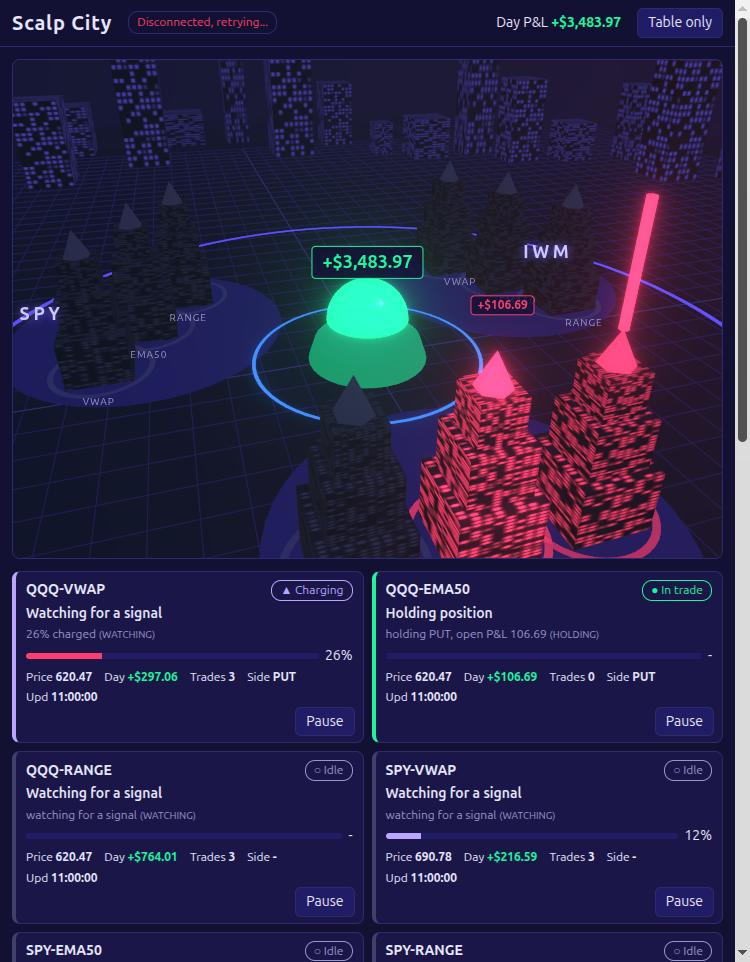
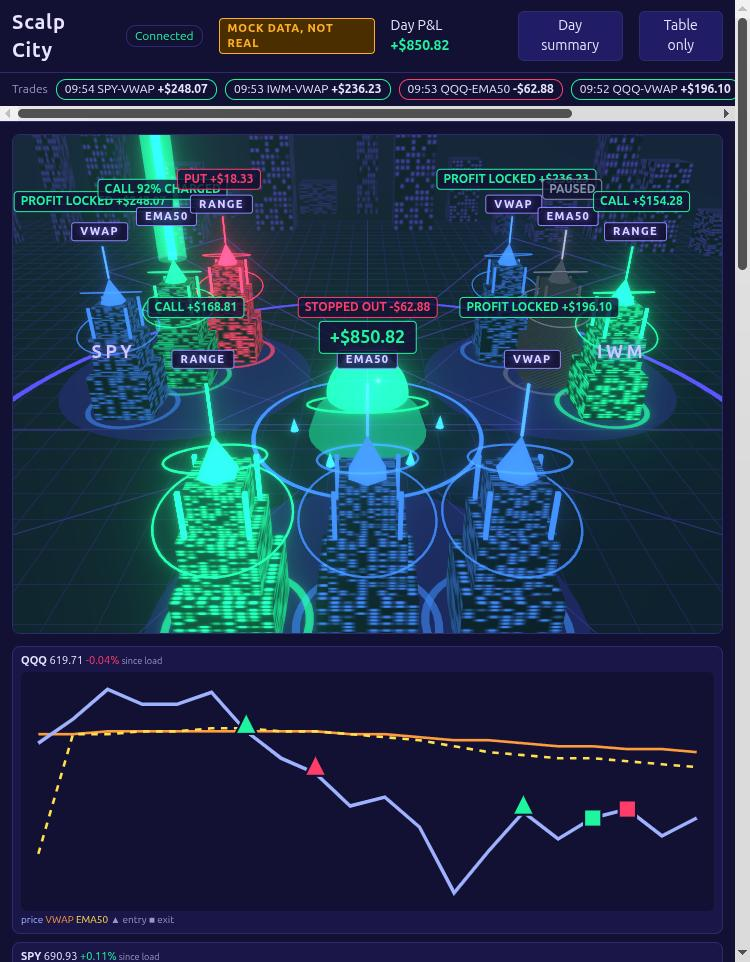
fix: label scaling, opaque sheet on narrow screens; refresh screenshots

diff --git a/web3d/src/styles.css b/web3d/src/styles.css
@@ -9,13 +9,14 @@ button:hover:not(:disabled) { background: #2a2290; }
 button:disabled { opacity: 0.6; cursor: default; }
 :focus-visible { outline: 2px solid #fff; outline-offset: 2px; }
 h1, h2, h3 { margin: 0; }
-h1 { font-size: 20px; letter-spacing: 0.04em; }
+h1 { font-size: 20px; letter-spacing: 0.04em; white-space: nowrap; }
 h2 { font-size: 14px; text-transform: uppercase; letter-spacing: 0.08em; color: var(--muted); margin-bottom: 6px; }
 h3 { font-size: 13px; margin: 10px 0 4px; color: var(--muted); }
 .muted { color: var(--muted); } .pad { padding: 16px; }
 .pos { color: var(--call); } .neg { color: var(--put); }
-.top { display: flex; gap: 16px; align-items: center; padding: 8px 12px; border-bottom: 1px solid var(--line); }
-.top .total { margin-left: auto; }
+.top { display: flex; flex-wrap: wrap; gap: 8px 16px; align-items: center; padding: 8px 12px; border-bottom: 1px solid var(--line); }
+.top .total { margin-left: auto; white-space: nowrap; }
+.top button { white-space: nowrap; }
 .conn { font-size: 12px; padding: 2px 8px; border-radius: 10px; border: 1px solid var(--line); }
 .c-live { color: var(--call); } .c-down { color: var(--put); } .c-connecting { color: var(--locked); }
 .toast { background: #5a1030; border: 1px solid var(--put); margin: 8px 12px; padding: 6px 10px; border-radius: 6px; }
@@ -107,7 +108,7 @@ h3 { font-size: 13px; margin: 10px 0 4px; color: var(--muted); }
 .tlabel.WIN { border-color: var(--call); color: var(--call); } .tlabel.LOSS { border-color: var(--put); color: var(--put); }
 @media (max-width: 1100px) {
   .insight { grid-template-columns: 1fr; } .charts { grid-template-columns: 1fr; }
-  .canvaswrap .room, .right .room { position: fixed; inset: auto 8px 8px 8px; width: auto; max-height: 70vh; }
+  .canvaswrap .room, .right .room { position: fixed; inset: auto 8px 8px 8px; width: auto; max-height: 60vh; background: #120e55; box-shadow: 0 -8px 24px #000a; }
 }
 
 .mode { font-size: 11px; font-weight: 800; letter-spacing: .08em; padding: 2px 8px; border-radius: 4px; border: 1px solid var(--locked); color: var(--locked); }

diff --git a/web3d/src/scene/Tower.tsx b/web3d/src/scene/Tower.tsx
@@ -149,11 +149,11 @@ function TowerImpl({ row, position, reducedMotion, selected, badge, onSelect }: 
         <ringGeometry args={[1.25, 1.4, 40]} />
         <meshBasicMaterial color={selected ? '#ffffff' : color} transparent opacity={selected ? 0.95 : 0.25 + v.glow * 0.4} toneMapped={false} />
       </mesh>
-      <Html position={[0, TOWER_TOP + 1.3, 0]} center zIndexRange={[10, 0]} style={{ pointerEvents: 'none' }}>
+      <Html position={[0, TOWER_TOP + 1.3, 0]} center distanceFactor={15} zIndexRange={[10, 0]} style={{ pointerEvents: 'none' }}>
         <div className="sign">{trigger}</div>
       </Html>
       {badge && (
-        <Html position={[0, TOWER_TOP + 2.1, 0]} center zIndexRange={[10, 0]} style={{ pointerEvents: 'none' }}>
+        <Html position={[0, TOWER_TOP + 2.1, 0]} center distanceFactor={15} zIndexRange={[10, 0]} style={{ pointerEvents: 'none' }}>
           <div className={`tlabel ${badge.tone}`} style={{ borderColor: TONE_COLOR[badge.tone], color: TONE_COLOR[badge.tone] }}>{badge.text}</div>
         </Html>
       )}
